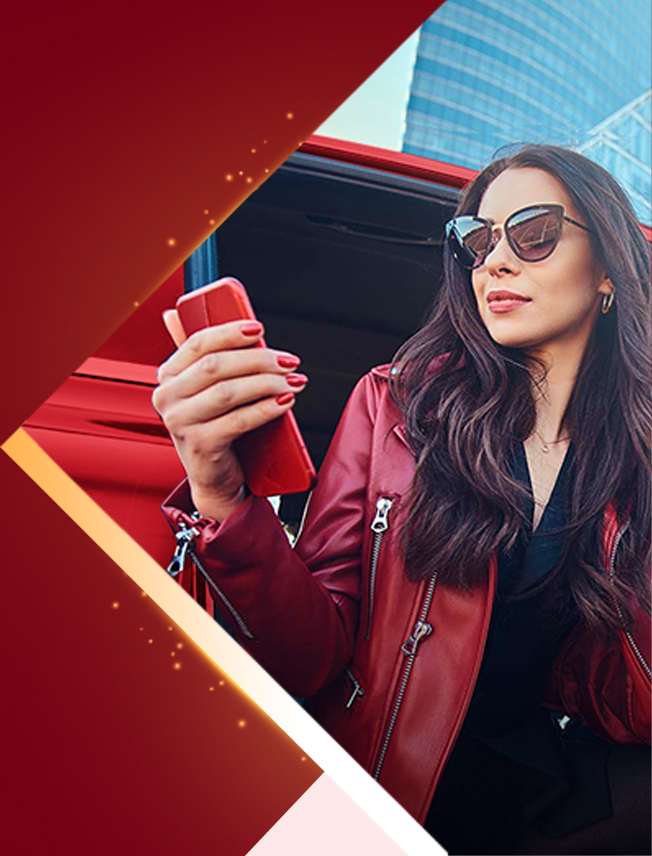
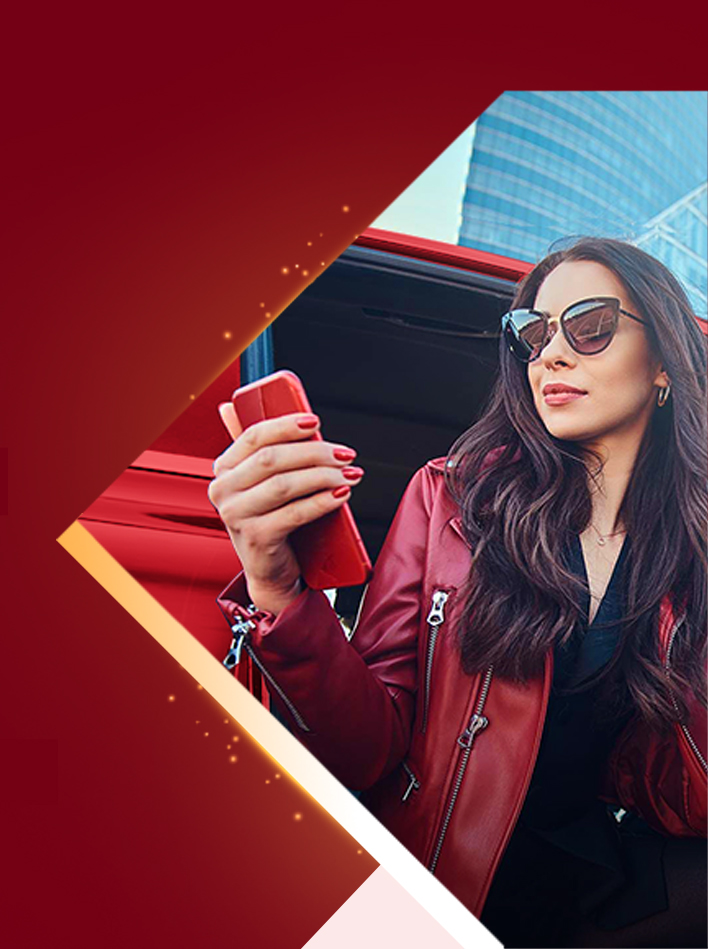
fix

diff --git a/source/index_en.html b/source/index_en.html
@@ -98,7 +98,7 @@
                       <td style="padding: 0; margin: 0; border: none; line-height: 1.3; font-size: 16px; font-family: Arial, Helvetica, sans-serif !important;">&nbsp;</td>
                     </tr>
                     <tr>
-                      <td style="padding: 0; margin: 0; border: none; line-height: 1.3; font-size: 16px; font-family: Arial, Helvetica, sans-serif !important;">Để mang đến sự tiện lợi và dễ dàng hơn nữa, chúng tôi mong muốn giới thiệu tới Quý khách Thẻ Tín Dụng HSBC Premier World Mastercard<sup style="font-size: 12px;">®</sup>, dành riêng cho khách hàng HSBC Premier.</td>
+                      <td style="padding: 0; margin: 0; border: none; line-height: 1.3; font-size: 16px; font-family: Arial, Helvetica, sans-serif !important;">To bring you even more convenience and ease, we are delighted to introduce the HSBC Premier World Mastercard<sup style="font-size: 12px;">®</sup> credit card designed just for Premier customer.</td>
                     </tr>
                     <tr>
                       <td height="56" style="padding: 0; margin: 0; border: none; line-height: 1.3; font-size: 16px; font-family: Arial, Helvetica, sans-serif !important;">&nbsp;</td>
@@ -121,14 +121,13 @@
 											<td height="56" bgcolor="#730014" valign="middle" align="left" style="padding: 0; margin: 0; border: none; line-height: 1.3; font-size: 14px; font-family: Arial, Helvetica, sans-serif !important; color: #FFFFFF;">&nbsp;</td>
 										</tr>
 										<tr>
-										  <td bgcolor="#730014" valign="middle" align="left" style="padding: 0; margin: 0; border: none; line-height: 1.3; font-size: 22px; font-family: Arial, Helvetica, sans-serif !important; color: #FFFFFF;"><strong>Tận hưởng cuộc sống vẹn toàn cùng<br />
-									      Thẻ Tín Dụng HSBC Premier World Mastercard<sup style="font-size: 18px;">®</sup></strong></td>
+										  <td bgcolor="#730014" valign="middle" align="left" style="padding: 0; margin: 0; border: none; line-height: 1.3; font-size: 22px; font-family: Arial, Helvetica, sans-serif !important; color: #FFFFFF;"><strong>For a life full of life with HSBC Premier World Mastercard<sup style="font-size: 18px;">®</sup></strong></td>
 									  </tr>
 										<tr>
 										  <td bgcolor="#730014" valign="middle" align="left" style="padding: 0; margin: 0; border: none; line-height: 1.3; font-size: 16px; font-family: Arial, Helvetica, sans-serif !important; color: #FFFFFF;">&nbsp;</td>
 									  </tr>
 										<tr>
-										  <td bgcolor="#730014" valign="middle" align="left" style="padding: 0; margin: 0; border: none; line-height: 1.3; font-size: 16px; font-family: Arial, Helvetica, sans-serif !important; color: #FFFFFF;">Thẻ Tín Dụng HSBC Premier World Mastercard<sup style="font-size: 11px;">®</sup> luôn đồng hành cùng Quý khách tới bất kỳ nơi đâu, được chấp nhận thanh toán tại hơn 25 triệu điểm giao dịch có logo Mastercard<sup style="font-size: 11px;">®</sup>, và mang đến nhiều chương trình ưu đãi đặc quyền hấp dẫn.</td>
+										  <td bgcolor="#730014" valign="middle" align="left" style="padding: 0; margin: 0; border: none; line-height: 1.3; font-size: 16px; font-family: Arial, Helvetica, sans-serif !important; color: #FFFFFF;">HSBC Premier sets the world before you, wherever you go by providing you instant access to over 25 million establishments that carry the Mastercard<sup style="font-size: 11px;">®</sup> logo, plus the fabulous privileges and rewards programme.</td>
 									  </tr>
 										</table></td>
 									<td width="56" bgcolor="#730014" valign="middle" align="left" style="padding: 0; margin: 0; border: none; line-height: 1.3; font-size: 14px; font-family: Arial, Helvetica, sans-serif !important; color: #FFFFFF;">&nbsp;</td>
@@ -148,35 +147,33 @@
 										  <td height="28" bgcolor="#730014" valign="middle" align="left" style="padding: 0; margin: 0; border: none; line-height: 1.3; font-size: 14px; font-family: Arial, Helvetica, sans-serif !important; color: #FFFFFF;">&nbsp;</td>
 									  </tr>
 										<tr>
-										  <td bgcolor="#730014" valign="middle" align="left" style="padding: 0; margin: 0; border: none; line-height: 1.3; font-size: 22px; font-family: Arial, Helvetica, sans-serif !important; color: #FFFFFF;"><strong>Chương trình ưu đãi<br />
-									      đặc quyền hấp dẫn</strong></td>
+										  <td bgcolor="#730014" valign="middle" align="left" style="padding: 0; margin: 0; border: none; line-height: 1.3; font-size: 22px; font-family: Arial, Helvetica, sans-serif !important; color: #FFFFFF;"><strong>Fabulous privileges and rewards programme</strong></td>
 									  </tr>
 										<tr>
 										  <td bgcolor="#730014" valign="middle" align="left" style="padding: 0; margin: 0; border: none; line-height: 1.3; font-size: 14px; font-family: Arial, Helvetica, sans-serif !important; color: #FFFFFF;"><table width="100%" border="0" cellpadding="0" cellspacing="0" class="chs_body">
 											  <tr>
 											    <td width="50" bgcolor="#730014" valign="middle" align="left" style="padding: 15px 0 0 0; margin: 0; border: none; line-height: 1.3; font-size: 14px; font-family: Arial, Helvetica, sans-serif !important; color: #FFFFFF;"><img src="image/chs_box_2.png" width="50" height="auto" alt="" style="display: block" /></td>
-												  <td bgcolor="#730014" valign="middle" align="left" style="padding: 15px 0 0 10px; margin: 0; border: none; line-height: 1.3; font-size: 16px; font-family: Arial, Helvetica, sans-serif !important; color: #FFFFFF;">Thời hạn không tính lãi<br />
-											      lên đến 55 ngày</td>
+												  <td bgcolor="#730014" valign="middle" align="left" style="padding: 15px 0 0 10px; margin: 0; border: none; line-height: 1.3; font-size: 16px; font-family: Arial, Helvetica, sans-serif !important; color: #FFFFFF;">Interest free period up to 55 days</td>
 											  </tr>
 											  <tr>
 											    <td bgcolor="#730014" valign="middle" align="left" style="padding: 15px 0 0 0; margin: 0; border: none; line-height: 1.3; font-size: 14px; font-family: Arial, Helvetica, sans-serif !important; color: #FFFFFF;"><img src="image/chs_box_3.png" width="50" height="auto" alt="" style="display: block" /></td>
-												  <td bgcolor="#730014" valign="middle" align="left" style="padding: 15px 0 0 10px; margin: 0; border: none; line-height: 1.3; font-size: 16px; font-family: Arial, Helvetica, sans-serif !important; color: #FFFFFF;">Không phí thường niên</td>
+												  <td bgcolor="#730014" valign="middle" align="left" style="padding: 15px 0 0 10px; margin: 0; border: none; line-height: 1.3; font-size: 16px; font-family: Arial, Helvetica, sans-serif !important; color: #FFFFFF;">No annual fee</td>
 											  </tr>
 											  <tr>
 											    <td bgcolor="#730014" valign="middle" align="left" style="padding: 15px 0 0 0; margin: 0; border: none; line-height: 1.3; font-size: 14px; font-family: Arial, Helvetica, sans-serif !important; color: #FFFFFF;"><img src="image/chs_box_4.png" width="50" height="auto" alt="" style="display: block" /></td>
-												  <td bgcolor="#730014" valign="middle" align="left" style="padding: 15px 0 0 10px; margin: 0; border: none; line-height: 1.3; font-size: 16px; font-family: Arial, Helvetica, sans-serif !important; color: #FFFFFF;">Quy đổi điểm thưởng tích lũy với danh sách quà tặng phong phú</td>
+												  <td bgcolor="#730014" valign="middle" align="left" style="padding: 15px 0 0 10px; margin: 0; border: none; line-height: 1.3; font-size: 16px; font-family: Arial, Helvetica, sans-serif !important; color: #FFFFFF;">Redeem accumulated reward points with our Rewards Programme Details</td>
 											  </tr>
 											  <tr>
 											    <td bgcolor="#730014" valign="middle" align="left" style="padding: 10px 0 0 0; margin: 0; border: none; line-height: 1.3; font-size: 14px; font-family: Arial, Helvetica, sans-serif !important; color: #FFFFFF;">&nbsp;</td>
-											    <td bgcolor="#730014" valign="middle" align="left" style="padding: 10px 0 0 0; margin: 0; border: none; line-height: 1.3; font-size: 16px; font-family: Arial, Helvetica, sans-serif !important; color: #FFFFFF;"><a href="https://www.hsbc.com.vn/vi-vn/credit-cards/rewards/" target="_blank"><img src="image/chs_box_7.png" width="155" height="auto" alt="" style="display: block" /></a></td>
+											    <td bgcolor="#730014" valign="middle" align="left" style="padding: 10px 0 0 0; margin: 0; border: none; line-height: 1.3; font-size: 16px; font-family: Arial, Helvetica, sans-serif !important; color: #FFFFFF;"><a href="https://www.hsbc.com.vn/en-vn/credit-cards/rewards/" target="_blank"><img src="image/chs_box_7_en.png" width="155" height="auto" alt="" style="display: block" /></a></td>
 										    </tr>
 											  <tr>
 											    <td bgcolor="#730014" valign="middle" align="left" style="padding: 15px 0 0 0; margin: 0; border: none; line-height: 1.3; font-size: 14px; font-family: Arial, Helvetica, sans-serif !important; color: #FFFFFF;"><img src="image/chs_box_5.png" width="50" height="auto" alt="" style="display: block" /></td>
-												  <td bgcolor="#730014" valign="middle" align="left" style="padding: 15px 0 0 10px; margin: 0; border: none; line-height: 1.3; font-size: 16px; font-family: Arial, Helvetica, sans-serif !important; color: #FFFFFF;">Ưu đãi hỗ trợ giáo dục cho khách hàng HSBC Premier và các con từ những đối tác hàng đầu</td>
+												  <td bgcolor="#730014" valign="middle" align="left" style="padding: 15px 0 0 10px; margin: 0; border: none; line-height: 1.3; font-size: 16px; font-family: Arial, Helvetica, sans-serif !important; color: #FFFFFF;">Education Offers for you and your children with our exclusive education offers from leading educational partners</td>
 											  </tr>
 											  <tr>
 											    <td bgcolor="#730014" valign="middle" align="left" style="padding: 10px 0 0 0; margin: 0; border: none; line-height: 1.3; font-size: 14px; font-family: Arial, Helvetica, sans-serif !important; color: #FFFFFF;">&nbsp;</td>
-											    <td bgcolor="#730014" valign="middle" align="left" style="padding: 10px 0 0 0; margin: 0; border: none; line-height: 1.3; font-size: 16px; font-family: Arial, Helvetica, sans-serif !important; color: #FFFFFF;"><a href="https://www.hsbc.com.vn/premier/offers/education/" target="_blank"><img src="image/chs_box_7.png" width="155" height="auto" alt="" style="display: block" /></a></td>
+											    <td bgcolor="#730014" valign="middle" align="left" style="padding: 10px 0 0 0; margin: 0; border: none; line-height: 1.3; font-size: 16px; font-family: Arial, Helvetica, sans-serif !important; color: #FFFFFF;"><a href="https://www.hsbc.com.vn/en-vn/premier/offers/education/" target="_blank"><img src="image/chs_box_7_en.png" width="155" height="auto" alt="" style="display: block" /></a></td>
 										    </tr>
 											  </table></td>
 									  </tr>
@@ -184,7 +181,7 @@
 										  <td height="40" bgcolor="#730014" valign="middle" align="left" style="padding: 0; margin: 0; border: none; line-height: 1.3; font-size: 14px; font-family: Arial, Helvetica, sans-serif !important; color: #FFFFFF;">&nbsp;</td>
 									  </tr>
 										</table></td>
-									<td width="326" bgcolor="#730014" valign="bottom" align="left" style="padding: 0; margin: 0; border: none; line-height: 1.3; font-size: 14px; font-family: Arial, Helvetica, sans-serif !important; color: #FFFFFF;"><img src="image/chs_box_1.jpg" width="326" height="auto" alt="" style="display: block" /></td>
+									<td width="354" bgcolor="#730014" valign="bottom" align="left" style="padding: 0; margin: 0; border: none; line-height: 1.3; font-size: 14px; font-family: Arial, Helvetica, sans-serif !important; color: #FFFFFF;"><img src="image/chs_box_1.jpg" width="354" height="auto" alt="" style="display: block" /></td>
 								</tr>
 								</table></td>
 						</tr>
@@ -205,14 +202,14 @@
 											  <tr>
 												  <td bgcolor="#fce8e8" valign="middle" align="left" style="padding: 0; margin: 0; border: none; line-height: 1.3; font-size: 14px; font-family: Arial, Helvetica, sans-serif !important; color: #FFFFFF;"><table width="100%" border="0" cellpadding="0" cellspacing="0" class="chs_body">
 													  <tr>
-														  <td bgcolor="#fce8e8" valign="middle" align="left" style="padding: 0; margin: 0; border: none; line-height: 1.3; font-size: 16px; font-family: Arial, Helvetica, sans-serif !important; color: #730014;"><strong>Những thông tin cần biết</strong></td>
+														  <td bgcolor="#fce8e8" valign="middle" align="left" style="padding: 0; margin: 0; border: none; line-height: 1.3; font-size: 16px; font-family: Arial, Helvetica, sans-serif !important; color: #730014;"><strong>What you should know</strong></td>
 													  </tr>
 													  <tr>
-													    <td bgcolor="#fce8e8" valign="middle" align="left" style="padding: 10px 0 0 0; margin: 0; border: none; line-height: 1.3; font-size: 16px; font-family: Arial, Helvetica, sans-serif !important; color: #000000;">Quý khách có thể tham khảo ưu đãi mới nhất về Thẻ Tín Dụng HSBC Premier World Mastercard<sup style="font-size: 12px;">®</sup></td>
+													    <td bgcolor="#fce8e8" valign="middle" align="left" style="padding: 10px 0 0 0; margin: 0; border: none; line-height: 1.3; font-size: 16px; font-family: Arial, Helvetica, sans-serif !important; color: #000000;">You may refer to latest offers of HSBC Premier Mastercard<sup style="font-size: 12px;">®</sup> Credit Card</td>
 												    </tr>
 													  </table></td>
 												  <td width="80" bgcolor="#fce8e8" valign="bottom" align="left" style="padding: 0; margin: 0; border: none; line-height: 1.3; font-size: 14px; font-family: Arial, Helvetica, sans-serif !important; color: #FFFFFF;">&nbsp;</td>
-											    <td width="155" bgcolor="#fce8e8" valign="bottom" align="left" style="padding: 0; margin: 0; border: none; line-height: 1.3; font-size: 14px; font-family: Arial, Helvetica, sans-serif !important; color: #FFFFFF;"><a href="https://www.hsbc.com.vn/vi-vn/credit-cards/products/premier-mastercard/" target="_blank"><img src="image/chs_box_7.png" width="155" height="auto" alt="" style="display: block" /></a></td>
+											    <td width="155" bgcolor="#fce8e8" valign="bottom" align="left" style="padding: 0; margin: 0; border: none; line-height: 1.3; font-size: 14px; font-family: Arial, Helvetica, sans-serif !important; color: #FFFFFF;"><a href="https://www.hsbc.com.vn/en-vn/credit-cards/products/premier-mastercard/" target="_blank"><img src="image/chs_box_7_en.png" width="155" height="auto" alt="" style="display: block" /></a></td>
 											  </tr>
 											  </table></td>
 									  </tr>
@@ -235,10 +232,10 @@
 								  <td height="40" valign="middle" align="left" style="padding: 0; margin: 0; border: none; line-height: 1.3; font-size: 14px; font-family: Arial, Helvetica, sans-serif !important; color: #FFFFFF;">&nbsp;</td>
 							  </tr>
 							  <tr>
-								  <td valign="middle" align="left" style="padding: 0; margin: 0; border: none; line-height: 1.3; font-size: 16px; font-family: Arial, Helvetica, sans-serif !important; color: #730014;"><strong>Mở Thẻ Tín Dụng HSBC Premier World Mastercard<sup style="font-size: 12px;">®</sup> ngay hôm nay</strong></td>
+								  <td valign="middle" align="left" style="padding: 0; margin: 0; border: none; line-height: 1.3; font-size: 16px; font-family: Arial, Helvetica, sans-serif !important; color: #730014;"><strong>How can apply HSBC Premier World Mastercard<sup style="font-size: 12px;">®</sup> Credit Card</strong></td>
 							  </tr>
 							  <tr>
-								<td valign="middle" align="left" style="padding: 10px 0 0 0; margin: 0; border: none; line-height: 1.3; font-size: 16px; font-family: Arial, Helvetica, sans-serif !important; color: #000000;">Để tìm hiểu thêm thông tin, xin vui lòng liên hệ đến Giám Đốc Quan Hệ Khách Hàng Premier của Quý khách để được hỗ trợ</td>
+								<td valign="middle" align="left" style="padding: 10px 0 0 0; margin: 0; border: none; line-height: 1.3; font-size: 16px; font-family: Arial, Helvetica, sans-serif !important; color: #000000;">Here are the contact details of your Premier Relationship Manager for further supports</td>
 							</tr>
 							  <tr>
 							    <td valign="middle" align="left" style="padding: 0; margin: 0; border: none; line-height: 1.3; font-size: 16px; font-family: Arial, Helvetica, sans-serif !important; color: #FFFFFF;">&nbsp;</td>
@@ -255,17 +252,17 @@
 						  <td valign="middle" align="left" style="padding: 0; margin: 0; border: none; line-height: 1.3; font-size: 14px; font-family: Arial, Helvetica, sans-serif !important; color: #FFFFFF;"><table width="100%" border="0" cellpadding="0" cellspacing="0" class="chs_body">
 							  <tr>
 								  <td width="20" bgcolor="#730014" valign="middle" align="left" style="padding: 0; margin: 0; border: none; line-height: 1.3; font-size: 14px; font-family: Arial, Helvetica, sans-serif !important; color: #FFFFFF;">&nbsp;</td>
-								  <td width="260" bgcolor="#730014" valign="middle" align="left" style="padding: 0; margin: 0; border: none; line-height: 1.3; font-size: 16px; font-family: Arial, Helvetica, sans-serif !important; color: #FFFFFF;"><strong>Giám đốc<br />
-							      Quan hệ Khách hàng Premier<br />
-của riêng Quý khách</strong></td>
+								  <td width="260" bgcolor="#730014" valign="middle" align="left" style="padding: 0; margin: 0; border: none; line-height: 1.3; font-size: 16px; font-family: Arial, Helvetica, sans-serif !important; color: #FFFFFF;"><strong>Your dedicate<br />
+Premier Relationship Manager<br />
+is here for you</strong></td>
 								  <td width="90" bgcolor="#ebebeb" valign="middle" align="left" style="padding: 0; margin: 0; border: none; line-height: 1.3; font-size: 14px; font-family: Arial, Helvetica, sans-serif !important; color: #FFFFFF;"><img src="image/chs_box_12.jpg" width="70" height="auto" alt="" style="display: block" /></td>
 								  <td bgcolor="#ebebeb" valign="middle" align="left" style="padding: 0; margin: 0; border: none; line-height: 1.3; font-size: 14px; font-family: Arial, Helvetica, sans-serif !important;"><table width="100%" border="0" cellpadding="0" cellspacing="0" class="chs_body">
 									  <tr>
-										  <td width="120" bgcolor="#ebebeb" valign="middle" align="left" style="padding: 0; margin: 0; border: none; line-height: 1.3; font-size: 14px; font-family: Arial, Helvetica, sans-serif !important;">Tên:</td>
+										  <td width="120" bgcolor="#ebebeb" valign="middle" align="left" style="padding: 0; margin: 0; border: none; line-height: 1.3; font-size: 14px; font-family: Arial, Helvetica, sans-serif !important;">Name:</td>
 										  <td bgcolor="#ebebeb" valign="middle" align="left" style="padding: 0; margin: 0; border: none; line-height: 1.3; font-size: 14px; font-family: Arial, Helvetica, sans-serif !important;">XXXX</td>
 									  </tr>
 									  <tr>
-									    <td bgcolor="#ebebeb" valign="middle" align="left" style="padding: 0; margin: 0; border: none; line-height: 1.3; font-size: 14px; font-family: Arial, Helvetica, sans-serif !important;">Số điện thoại:</td>
+									    <td bgcolor="#ebebeb" valign="middle" align="left" style="padding: 0; margin: 0; border: none; line-height: 1.3; font-size: 14px; font-family: Arial, Helvetica, sans-serif !important;">Contact number:</td>
 									    <td bgcolor="#ebebeb" valign="middle" align="left" style="padding: 0; margin: 0; border: none; line-height: 1.3; font-size: 14px; font-family: Arial, Helvetica, sans-serif !important;">XXXX</td>
 								    </tr>
 									  <tr>
@@ -289,7 +286,7 @@ của riêng Quý khách</strong></td>
 				  <td valign="middle" align="left" style="padding: 0; margin: 0; border: none; line-height: 1.3; font-size: 16px; font-family: Arial, Helvetica, sans-serif !important; color: #FFFFFF;">&nbsp;</td>
 			  </tr>
 				<tr>
-				  <td valign="middle" align="left" style="padding: 0 56px; margin: 0; border: none; line-height: 1.3; font-size: 16px; font-family: Arial, Helvetica, sans-serif !important; color: #000000;">Trân trọng,<br />
+				  <td valign="middle" align="left" style="padding: 0 56px; margin: 0; border: none; line-height: 1.3; font-size: 16px; font-family: Arial, Helvetica, sans-serif !important; color: #000000;">Sincerely yours,<br />
 		          <strong>HSBC Premier</strong></td>
 			  </tr>
 				</table></td>

diff --git a/source/index_vn.html b/source/index_vn.html
@@ -184,7 +184,7 @@
 										  <td height="40" bgcolor="#730014" valign="middle" align="left" style="padding: 0; margin: 0; border: none; line-height: 1.3; font-size: 14px; font-family: Arial, Helvetica, sans-serif !important; color: #FFFFFF;">&nbsp;</td>
 									  </tr>
 										</table></td>
-									<td width="326" bgcolor="#730014" valign="bottom" align="left" style="padding: 0; margin: 0; border: none; line-height: 1.3; font-size: 14px; font-family: Arial, Helvetica, sans-serif !important; color: #FFFFFF;"><img src="image/chs_box_1.jpg" width="326" height="auto" alt="" style="display: block" /></td>
+									<td width="354" bgcolor="#730014" valign="bottom" align="left" style="padding: 0; margin: 0; border: none; line-height: 1.3; font-size: 14px; font-family: Arial, Helvetica, sans-serif !important; color: #FFFFFF;"><img src="image/chs_box_1.jpg" width="354" height="auto" alt="" style="display: block" /></td>
 								</tr>
 								</table></td>
 						</tr>
